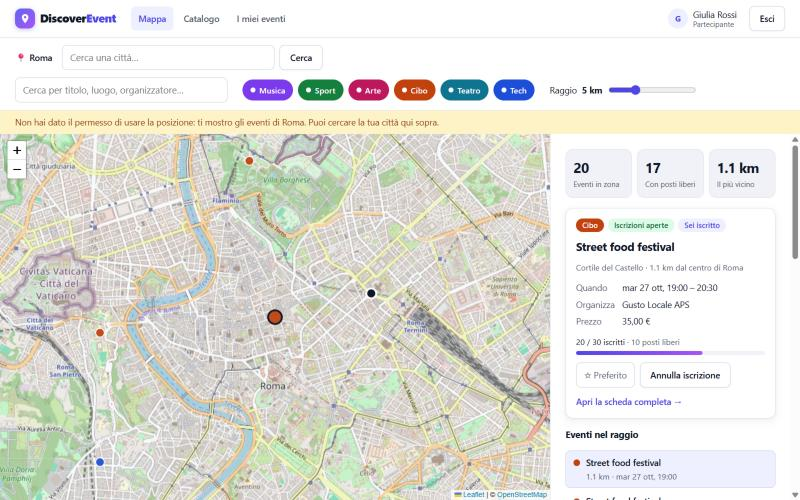
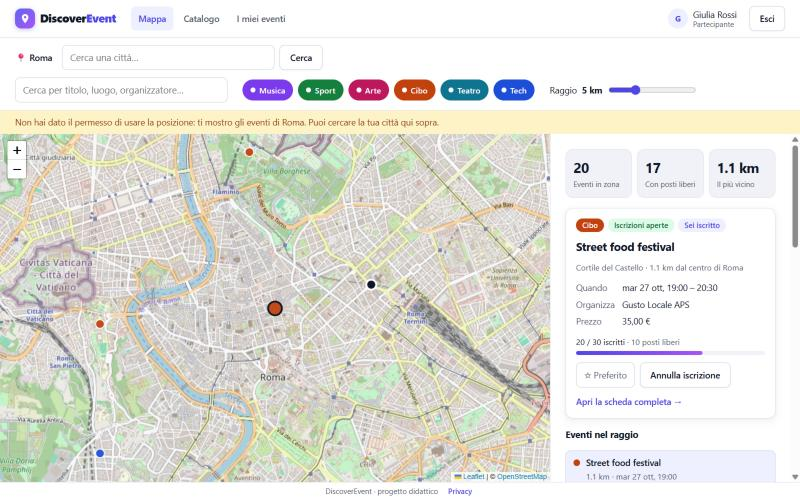
style(web): footer e pagina privacy con i nuovi design token
Il footer usava --panel, che col nuovo stile non esiste più: ora usa
--surface, e il link Privacy ha un'area cliccabile di almeno 24 px.
La pagina privacy ha sezioni separate e righe più ariose. Screenshot
rifatti per includere il footer.

diff --git a/apps/web/src/styles/global.css b/apps/web/src/styles/global.css
@@ -1289,29 +1289,54 @@ textarea:focus-visible {
 .footer {
   display: flex;
   justify-content: center;
-  gap: 12px;
+  align-items: center;
+  gap: var(--space-3);
   flex-wrap: wrap;
-  padding: 4px 16px;
-  background: var(--panel);
+  padding: 2px var(--space-4);
+  background: var(--surface);
   border-top: 1px solid var(--border);
   color: var(--muted);
-  font-size: 12px;
+  font-size: var(--text-xs);
+}
+/* Riga sottile, ma il link resta comodo da toccare (almeno 24 px). */
+.footer a {
+  display: inline-flex;
+  align-items: center;
+  min-height: 24px;
+  padding: 0 var(--space-1);
+  border-radius: 4px;
+  color: var(--primary);
+  font-weight: 500;
+  text-decoration: none;
+}
+.footer a:hover {
+  text-decoration: underline;
+  text-underline-offset: 3px;
+}
+/* Testo lungo da leggere: righe più ariose e sezioni ben separate. */
+.legal {
+  gap: var(--space-6);
 }
 .legal section {
   display: flex;
   flex-direction: column;
-  gap: 8px;
+  gap: var(--space-3);
+  padding-top: var(--space-5);
+  border-top: 1px solid var(--border);
 }
 .legal p,
 .legal ul {
   margin: 0;
-  line-height: 1.55;
+  line-height: 1.7;
 }
 .legal ul {
-  padding-left: 20px;
+  padding-left: var(--space-5);
   display: flex;
   flex-direction: column;
-  gap: 6px;
+  gap: var(--space-2);
+}
+.legal li::marker {
+  color: var(--primary);
 }
 
 /* ---------- Schermi stretti ---------- */
